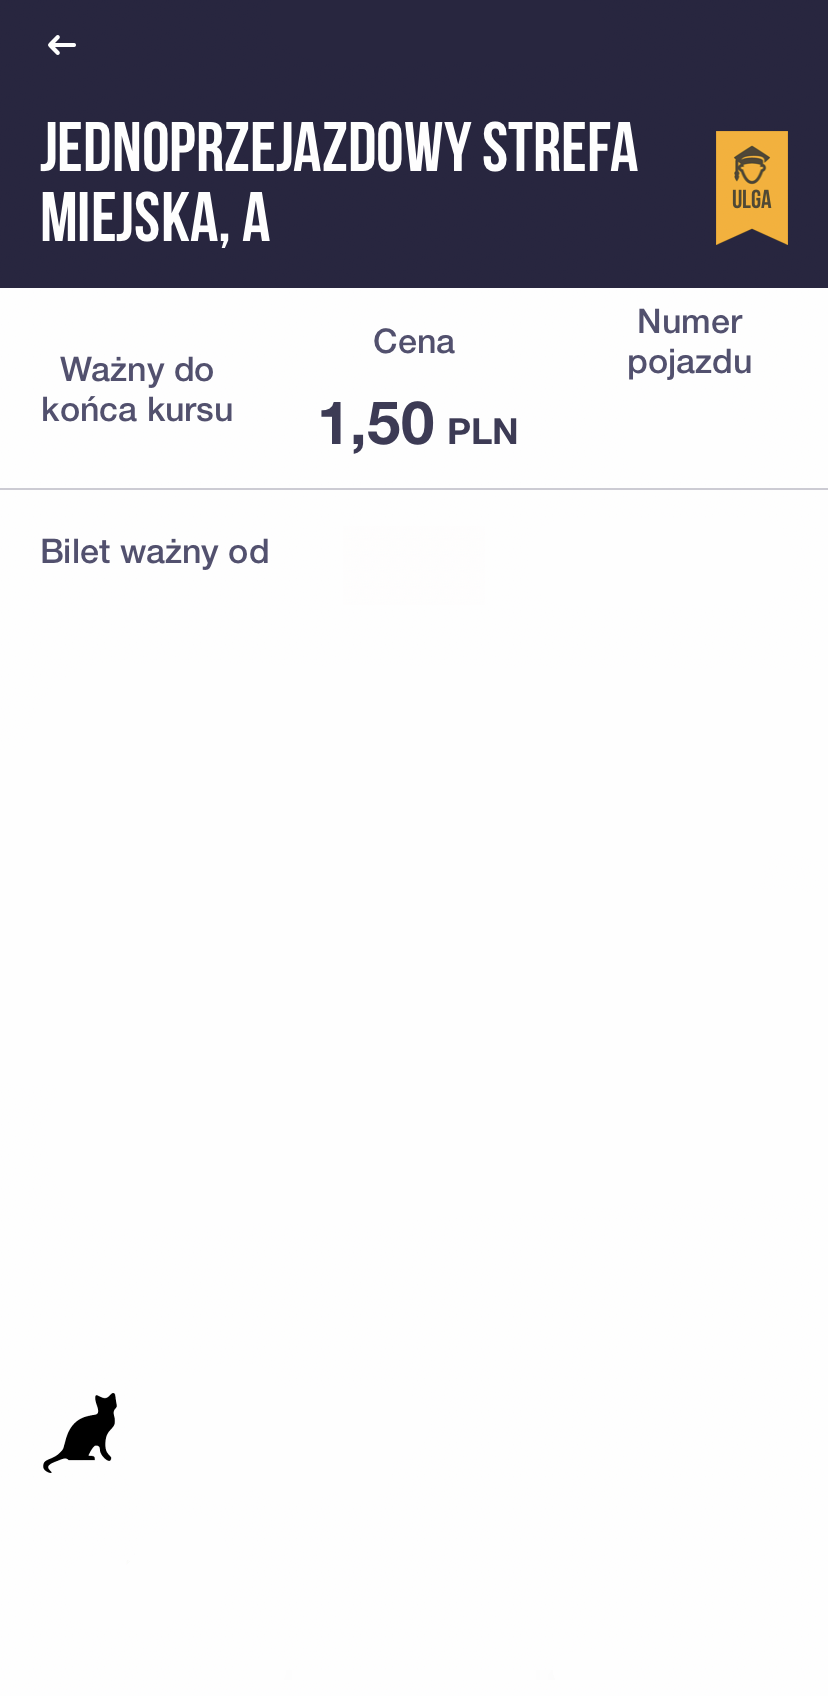
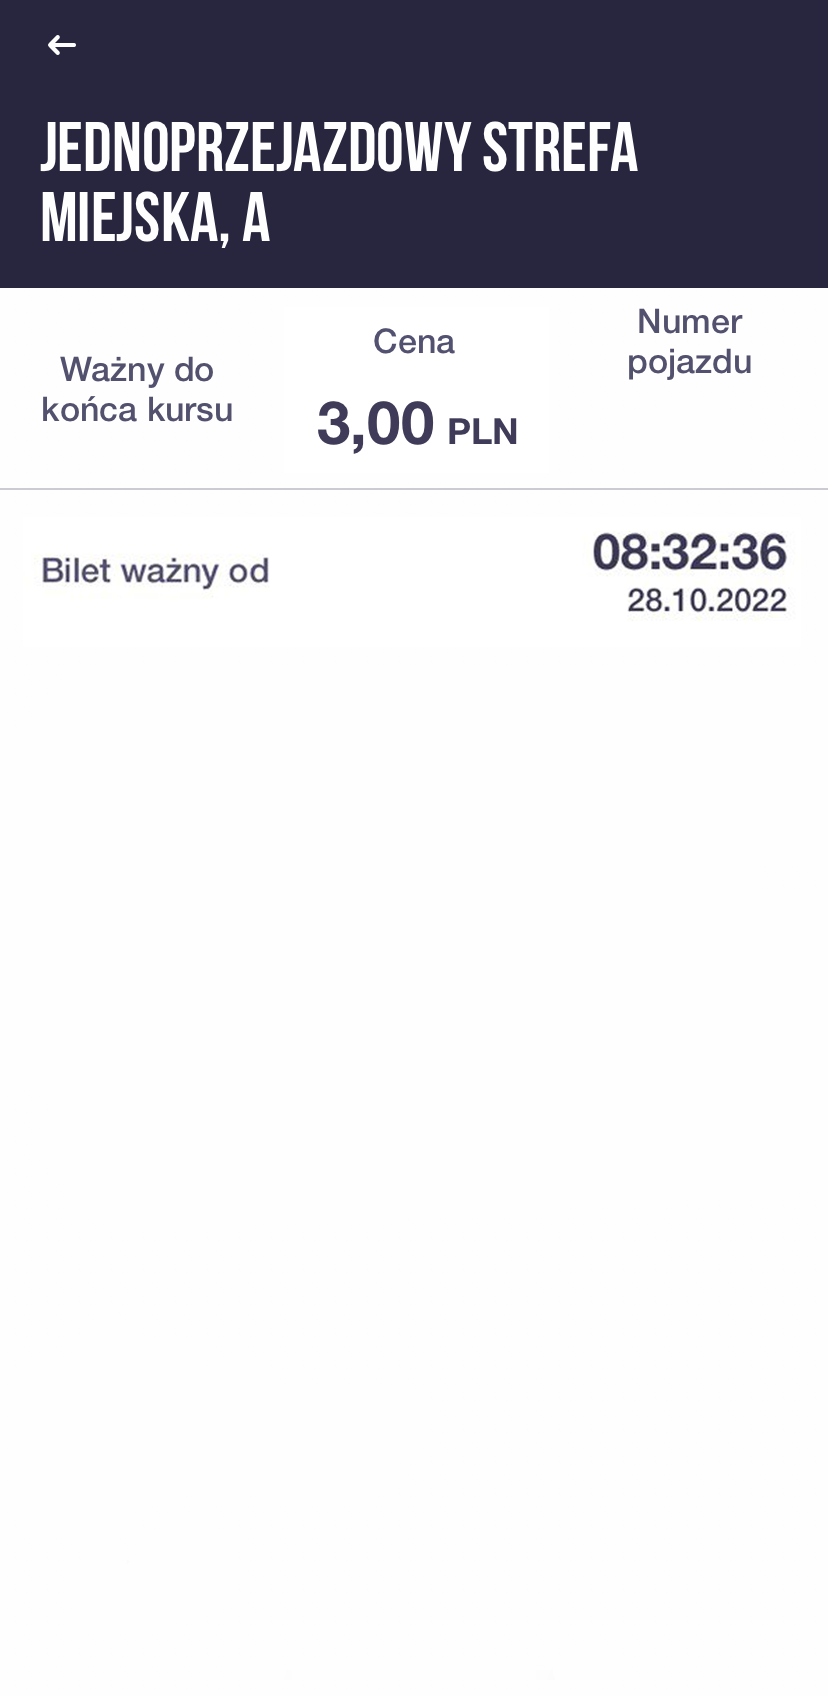
edit

diff --git a/date.js b/date.js
@@ -12,9 +12,7 @@ const now = new Date();
 now.setMinutes(now.getMinutes());
 
 minutes = ('0' + now.getMinutes()).slice(-2)
-
 hours = ('0' + now.getHours()).slice(-2)
-
 seconds = ('0' + now.getSeconds()).slice(-2)
 
 const current = hours + ':' + minutes;
@@ -31,14 +29,11 @@ hoursPast = ('0' + past.getHours()).slice(-2)
 secondsPast = ('0' + past.getSeconds()).slice(-2)
 
 pastTime = dd + '.' + mm + '.' + yyyy + 'r.' + " " + hoursPast + ':' + minutesPast;
-
 pastTimeSeconds = dd + '.' + mm + '.' + yyyy + 'r.' + " " + hoursPast + ':' + minutesPast + ':' + secondsPast;
 
 const currentSeconds = hoursPast + ':' + minutesPast + ':' + secondsPast
-
-console.log(pastTimeSeconds)
-
 document.getElementById("time").innerHTML = hours + ":" + minutesPast;
+console.log(pastTimeSeconds)
 
 var start = new Date(now - 6 * MS_PER_MINUTE);
 
@@ -50,6 +45,9 @@ function trackTime()
     var minutes = Math.floor(elapsed / 60000);
     var seconds = ((elapsed % 60000) / 1000).toFixed(0);
 
+    var nowtime = new Date();
+    var nowminutes = nowtime.getMinutes()
+
     if (minutes < 1) {
         var track = seconds + "s temu"
         document.getElementById("time-passed").innerHTML = track;
@@ -58,8 +56,10 @@ function trackTime()
         document.getElementById("time-passed").innerHTML = track;
     }
 
-    document.getElementById("date").innerHTML = pastTime;
-    
+    document.getElementById("date").innerHTML = dd + '.' + mm + '.' + yyyy + " " + hours + ':' + nowminutes;
+    document.getElementById("purchase-time-24h").innerHTML = hours + ":" + minutesPast + ":" + secondsPast;
+    document.getElementById("purchase-time-date").innerHTML = dd + '.' + mm + '.' + yyyy;
+
 }
 
 setInterval(trackTime, 1000);

diff --git a/index.html b/index.html
@@ -39,10 +39,14 @@
       <div id="ticket-id"></div>
       <input type="text" placeholder="451" id="line-no">
       <div id="time-passed">0s temu</div>
+      <div id="time-passed-full">
+        <div id="purchase-time-24h">14:23:31</div>
+        <div id="purchase-time-date">10.12.2022</div>
+      </div>
       
       <div id="qrcode"></div>
 
-      <input type="text" placeholder="kasjopea" id="name">
+      <input type="text" placeholder="" id="name">
       <div id="date">11.11.2011</div>
       <div id="gif-overlay-2"></div>
       <div id="gif-overlay"></div>
@@ -54,14 +58,14 @@
       <div class="active">Active</div>
       <div class="ticket-info">
         <div class="ticket">
-          <div class="discount"><img src="img/reduced.png"></div>
+          <div class="discount"><img src="img/normal.png"></div>
           <div class="control" onclick="play()"></div>
         </div>
         <div class="info-wrap">
           <div class="info">Valid from</div>
           <div class="info">Today <span id="time">0:00</span></div>
           <div class="divider"></div>
-          <div class="info">1,50 &nbsp;PLN</div>
+          <div class="info">3,00 &nbsp;PLN</div>
           <div class="divider"></div>
           <div class="info">Show more</div>
         </div>

diff --git a/index.css b/index.css
@@ -15,6 +15,8 @@ body {
     box-sizing: border-box;
     font-family: 'Roboto', sans-serif;
     color: #2f2f30;
+    overflow-x: hidden;
+    overflow-y: hidden;
 }
 
 #ticket {
@@ -101,6 +103,7 @@ body {
     height: 1px;
     margin-top: 8px;
     margin-bottom: 8px;
+    opacity: 0;
 }
 
 .info:nth-last-child(1) {
@@ -116,7 +119,7 @@ body {
 }
 
 .discount img {
-    margin: 3px 4px;
+    margin: 4px 4px;
     max-width: 169px;
 }
 
@@ -149,8 +152,30 @@ body {
     color: #e05571;
     font-weight: 700;
     font-size: 26px;
-    top: 260px;
+    top: 271px;
     right: 20px;
+    opacity: 0;
+}
+
+#time-passed-full {
+    position: absolute;
+    right: 20px;
+    top: 265px;
+    width: 200px;
+    text-align: right;
+    line-height: 140%;
+    background-color: white;
+}
+
+#purchase-time-24h {
+    color: #3d3b55;
+    font-weight: 700;
+    font-size: 26px;
+}
+
+#purchase-time-date {
+    color: #3d3b55;
+    font-weight: 500;
 }
 
 #line-no, #name, #date {
